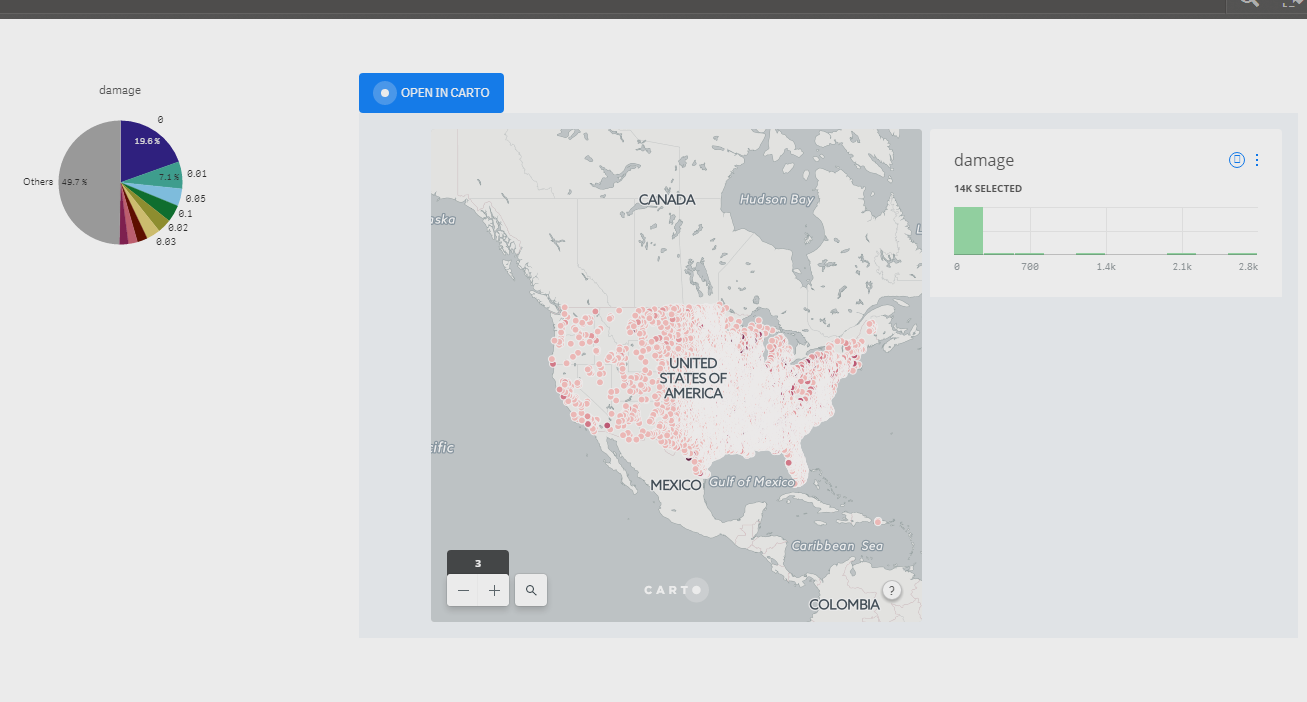
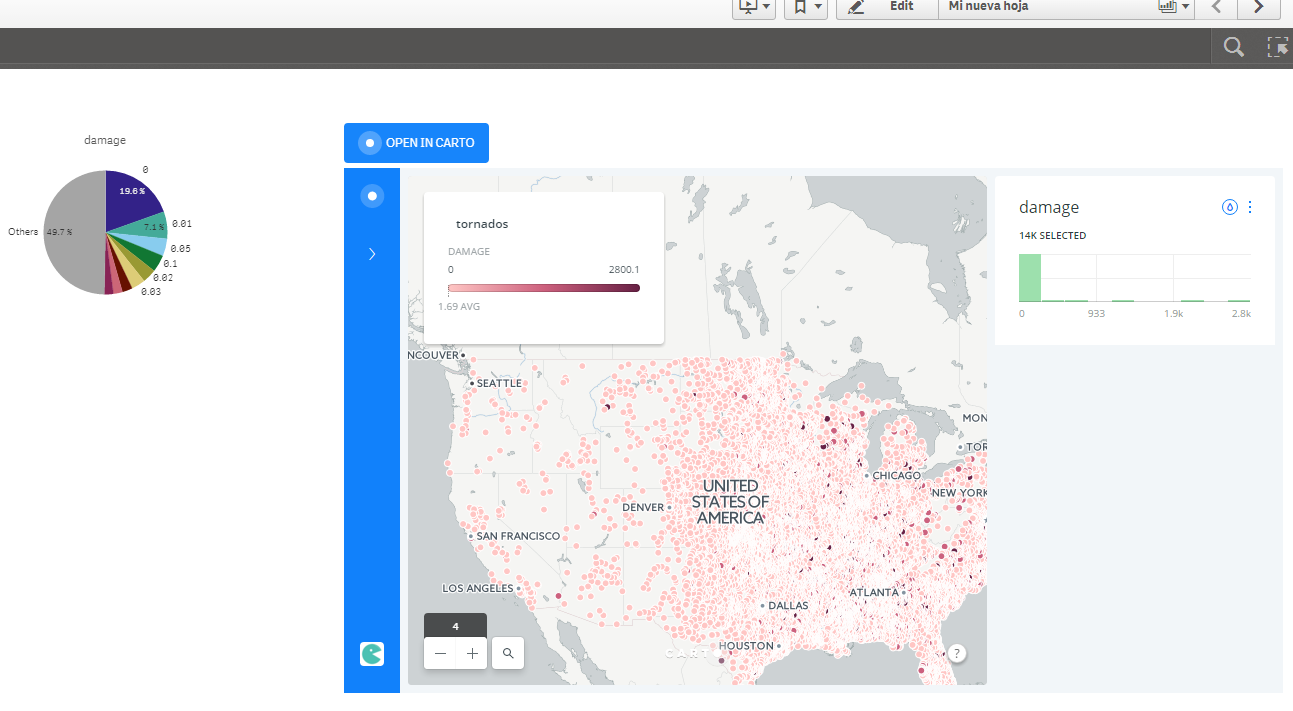
updated docs and imgs to reflect new iframe (embed) usage

diff --git a/README.md b/README.md
@@ -61,7 +61,7 @@ When sending data to an existing dataset, the dataset is effectively emptied bef
 
 ### Configuration
 
-One you have created _and published_ your geoapp in CARTO's Builder, you can embed it in Qlik Sense. First, get your share link at CARTO:
+One you have created _and published_ your geoapp in CARTO's Builder, you can embed it in Qlik Sense. First, get your "embed it" link at CARTO:
 
 ![](img/viz_json.png)
 
